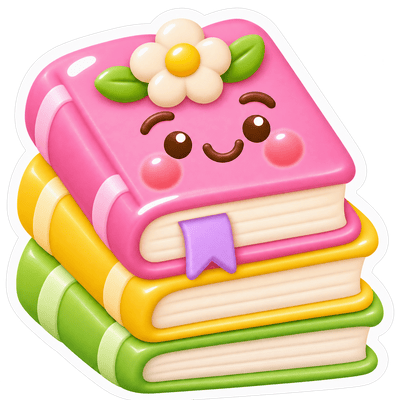
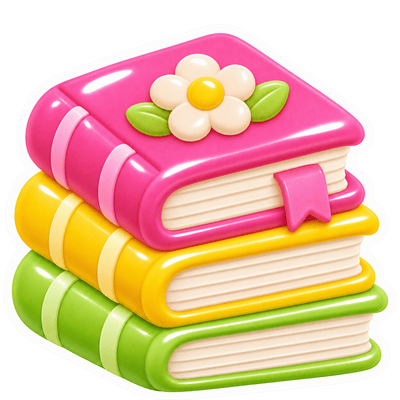
كرّاس الإملاء: the last 21 stickers, 58-60 new and 2-5, 7-20 redrawn as real objects with no faces (her "finish", 11 Nov 2026); sw v168

diff --git a/sw.js b/sw.js
@@ -2,7 +2,7 @@
    Bump VERSION on every deploy so the iPad picks up new files (sets.json, audio/). */
 // The same file serves both apps: Talk Cards registers sw.js, Prepositions registers sw.js?app=prepositions.
 const APP = new URL(location.href).searchParams.get('app') === 'prepositions' ? 'prepositions' : 'talk-cards';
-const VERSION = APP + '-v167';
+const VERSION = APP + '-v168';
 const FILES = APP === 'prepositions' ? [
   './',
   'index.html',
